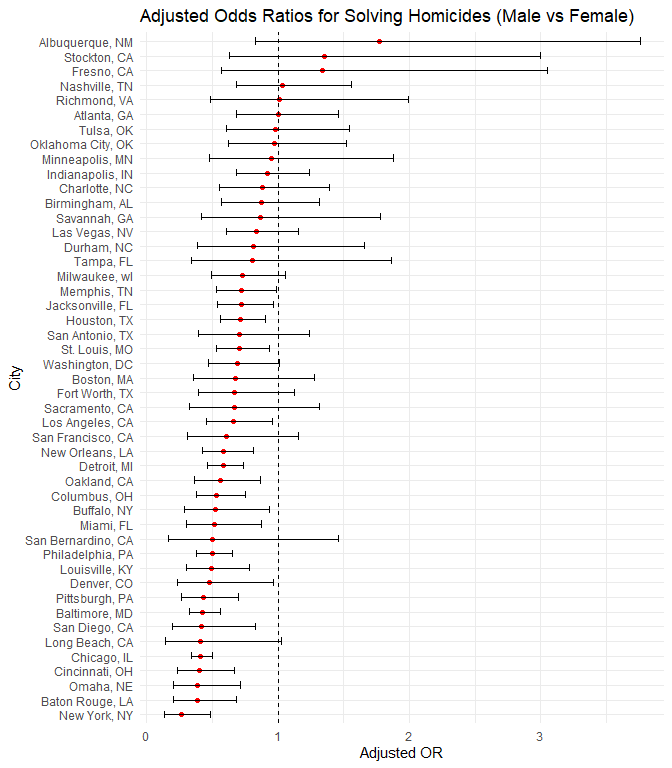
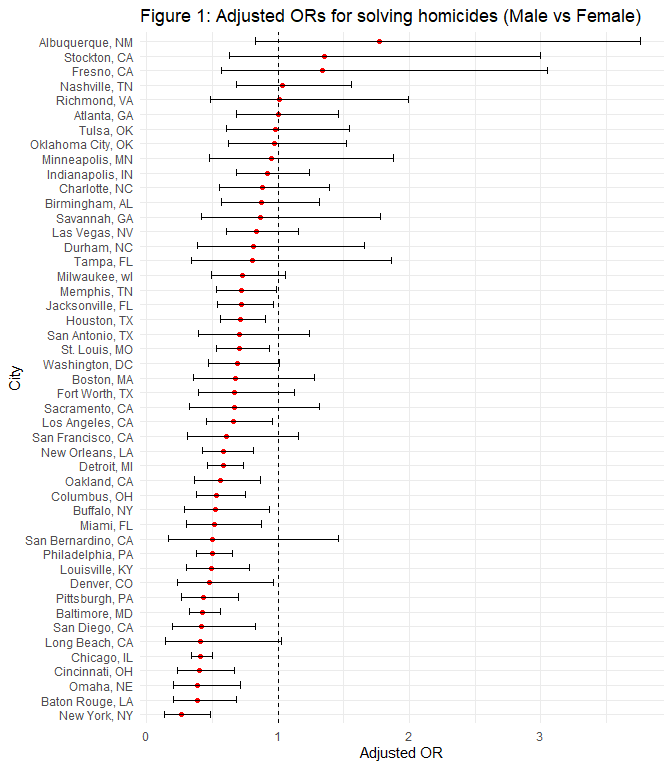
Complete problem 1

Changed region(s): [[0.1875, 0.0, 0.9688, 0.0312]]

diff --git a/p8105_hw6_ns3923.md b/p8105_hw6_ns3923.md
@@ -39,12 +39,12 @@ homicide_df
 
 **Cleaning and tidying data**
 
-Create a city_state variable (e.g. “Baltimore, MD”), and a binary
-variable indicating whether the homicide is solved. Omit cities Dallas,
-TX; Phoenix, AZ; and Kansas City, MO – these don’t report victim race.
-Also omit Tulsa, AL – this is a data entry mistake. For this problem,
-limit your analysis those for whom victim_race is white or black. Be
-sure that victim_age is numeric.
+- Create a city_state variable (e.g. “Baltimore, MD”), and a binary
+  variable indicating whether the homicide is solved.
+- Omit cities Dallas, TX; Phoenix, AZ; and Kansas City, MO (don’t report
+  victim race), and omit Tulsa, AL (a data entry mistake).
+- Limit those for whom victim_race is white or black, and victim_age is
+  numeric.
 
 ``` r
 homicide_df = homicide_df |> 
@@ -62,34 +62,30 @@ homicide_df = homicide_df |>
   drop_na(victim_age, victim_sex, victim_race)
 
 ##Check
-homicide_df |> 
-  count(city_state) |> 
-  arrange(desc(n))
+homicide_df 
 ```
 
-    ## # A tibble: 47 × 2
-    ##    city_state           n
-    ##    <chr>            <int>
-    ##  1 Chicago, IL       4502
-    ##  2 Baltimore, MD     2753
-    ##  3 Philadelphia, PA  2615
-    ##  4 Detroit, MI       2440
-    ##  5 Houston, TX       1875
-    ##  6 St. Louis, MO     1637
-    ##  7 Memphis, TN       1421
-    ##  8 New Orleans, LA   1339
-    ##  9 Washington, DC    1259
-    ## 10 Indianapolis, IN  1237
-    ## # ℹ 37 more rows
+    ## # A tibble: 39,403 × 14
+    ##    uid        reported_date victim_last  victim_first victim_race victim_age
+    ##    <chr>              <dbl> <chr>        <chr>        <chr>            <dbl>
+    ##  1 Alb-000003      20100601 SATTERFIELD  VIVIANA      White               15
+    ##  2 Alb-000005      20100102 MULA         VIVIAN       White               72
+    ##  3 Alb-000006      20100126 BOOK         GERALDINE    White               91
+    ##  4 Alb-000009      20100130 MARTIN-LEYVA GUSTAVO      White               56
+    ##  5 Alb-000016      20100308 GRAY         STEFANIA     White               43
+    ##  6 Alb-000018      20100323 DAVID        LARRY        White               52
+    ##  7 Alb-000019      20100402 BRITO        ELIZABETH    White               22
+    ##  8 Alb-000021      20100423 KING         TEVION       Black               15
+    ##  9 Alb-000022      20100423 BOYKIN       CEDRIC       Black               25
+    ## 10 Alb-000023      20100518 BARRAGAN     MIGUEL       White               20
+    ## # ℹ 39,393 more rows
+    ## # ℹ 8 more variables: victim_sex <chr>, city <chr>, state <chr>, lat <dbl>,
+    ## #   lon <dbl>, disposition <chr>, city_state <chr>, resolved <dbl>
 
 **Logistic regression for Baltimore, MD**
 
-For the city of Baltimore, MD, use the glm function to fit a logistic
-regression with resolved vs unresolved as the outcome and victim age,
-sex and race as predictors. Save the output of glm as an R object; apply
-the broom::tidy to this object; and obtain the estimate and confidence
-interval of the adjusted odds ratio for solving homicides comparing male
-victims to female victims keeping all other variables fixed.
+- Use the glm function to fit a logistic regression with resolved vs
+  unresolved as the outcome and victim age, sex and race as predictors.
 
 ``` r
 baltimore_df = 
@@ -108,21 +104,19 @@ baltimore_or =
   baltimore_fit |> 
   tidy(conf.int = TRUE, exponentiate = TRUE) |> 
   filter(term == "victim_sexMale") |> 
+  mutate(term = "Male vs Female (ref)") |> 
   select(term, estimate, conf.low, conf.high)
 
 baltimore_or |> 
   knitr::kable(digits = 3)
 ```
 
-| term           | estimate | conf.low | conf.high |
-|:---------------|---------:|---------:|----------:|
-| victim_sexMale |    0.426 |    0.324 |     0.558 |
+| term                 | estimate | conf.low | conf.high |
+|:---------------------|---------:|---------:|----------:|
+| Male vs Female (ref) |    0.426 |    0.324 |     0.558 |
 
-Now run glm for each of the cities in your dataset, and extract the
-adjusted odds ratio (and CI) for solving homicides comparing male
-victims to female victims. Do this within a “tidy” pipeline, making use
-of purrr::map, list columns, and unnest as necessary to create a
-dataframe with estimated ORs and CIs for each city.
+**Adjusted OR and CI for solving homicides comparing male to female
+victims**
 
 ``` r
 city_results = 
@@ -158,24 +152,75 @@ city_results =
     ## ℹ Run `dplyr::last_dplyr_warnings()` to see the 42 remaining warnings.
 
 ``` r
-##Check
 city_results |> 
   arrange(or) |> 
-  head()
+  select(city_state, or, or_lower, or_upper) |> 
+  mutate(
+    or       = round(or, 3),
+    or_lower = round(or_lower, 3),
+    or_upper = round(or_upper, 3)
+  ) |> 
+  knitr::kable(
+    col.names = c(
+      "City",
+      "Adjusted OR (Male vs Female)",
+      "Lower 95% CI",
+      "Upper 95% CI"
+    )
+  )
 ```
 
-    ## # A tibble: 6 × 8
-    ##   city_state      term         or std.error statistic  p.value or_lower or_upper
-    ##   <chr>           <chr>     <dbl>     <dbl>     <dbl>    <dbl>    <dbl>    <dbl>
-    ## 1 New York, NY    victim_s… 0.262     0.328     -4.08 4.54e- 5    0.133    0.485
-    ## 2 Baton Rouge, LA victim_s… 0.381     0.306     -3.15 1.65e- 3    0.204    0.684
-    ## 3 Omaha, NE       victim_s… 0.382     0.323     -2.97 2.95e- 3    0.199    0.711
-    ## 4 Cincinnati, OH  victim_s… 0.400     0.269     -3.41 6.49e- 4    0.231    0.667
-    ## 5 Chicago, IL     victim_s… 0.410     0.102     -8.77 1.86e-18    0.336    0.501
-    ## 6 Long Beach, CA  victim_s… 0.410     0.495     -1.80 7.18e- 2    0.143    1.02
+| City               | Adjusted OR (Male vs Female) | Lower 95% CI | Upper 95% CI |
+|:-------------------|-----------------------------:|-------------:|-------------:|
+| New York, NY       |                        0.262 |        0.133 |        0.485 |
+| Baton Rouge, LA    |                        0.381 |        0.204 |        0.684 |
+| Omaha, NE          |                        0.382 |        0.199 |        0.711 |
+| Cincinnati, OH     |                        0.400 |        0.231 |        0.667 |
+| Chicago, IL        |                        0.410 |        0.336 |        0.501 |
+| Long Beach, CA     |                        0.410 |        0.143 |        1.024 |
+| San Diego, CA      |                        0.413 |        0.191 |        0.830 |
+| Baltimore, MD      |                        0.426 |        0.324 |        0.558 |
+| Pittsburgh, PA     |                        0.431 |        0.263 |        0.696 |
+| Denver, CO         |                        0.479 |        0.233 |        0.962 |
+| Louisville, KY     |                        0.491 |        0.301 |        0.784 |
+| Philadelphia, PA   |                        0.496 |        0.376 |        0.650 |
+| San Bernardino, CA |                        0.500 |        0.166 |        1.462 |
+| Miami, FL          |                        0.515 |        0.304 |        0.873 |
+| Buffalo, NY        |                        0.521 |        0.288 |        0.936 |
+| Columbus, OH       |                        0.532 |        0.377 |        0.748 |
+| Oakland, CA        |                        0.563 |        0.364 |        0.867 |
+| Detroit, MI        |                        0.582 |        0.462 |        0.734 |
+| New Orleans, LA    |                        0.585 |        0.422 |        0.812 |
+| San Francisco, CA  |                        0.608 |        0.312 |        1.155 |
+| Los Angeles, CA    |                        0.662 |        0.457 |        0.954 |
+| Sacramento, CA     |                        0.669 |        0.326 |        1.314 |
+| Fort Worth, TX     |                        0.669 |        0.394 |        1.121 |
+| Boston, MA         |                        0.674 |        0.353 |        1.277 |
+| Washington, DC     |                        0.690 |        0.465 |        1.012 |
+| St. Louis, MO      |                        0.703 |        0.530 |        0.932 |
+| San Antonio, TX    |                        0.705 |        0.393 |        1.238 |
+| Houston, TX        |                        0.711 |        0.557 |        0.906 |
+| Jacksonville, FL   |                        0.720 |        0.536 |        0.965 |
+| Memphis, TN        |                        0.723 |        0.526 |        0.984 |
+| Milwaukee, wI      |                        0.727 |        0.495 |        1.054 |
+| Tampa, FL          |                        0.808 |        0.340 |        1.860 |
+| Durham, NC         |                        0.812 |        0.382 |        1.658 |
+| Las Vegas, NV      |                        0.837 |        0.606 |        1.151 |
+| Savannah, GA       |                        0.867 |        0.419 |        1.780 |
+| Birmingham, AL     |                        0.870 |        0.571 |        1.314 |
+| Charlotte, NC      |                        0.884 |        0.551 |        1.391 |
+| Indianapolis, IN   |                        0.919 |        0.678 |        1.241 |
+| Minneapolis, MN    |                        0.947 |        0.476 |        1.881 |
+| Oklahoma City, OK  |                        0.974 |        0.623 |        1.520 |
+| Tulsa, OK          |                        0.976 |        0.609 |        1.544 |
+| Atlanta, GA        |                        1.000 |        0.680 |        1.458 |
+| Richmond, VA       |                        1.006 |        0.483 |        1.994 |
+| Nashville, TN      |                        1.034 |        0.681 |        1.556 |
+| Fresno, CA         |                        1.335 |        0.567 |        3.048 |
+| Stockton, CA       |                        1.352 |        0.626 |        2.994 |
+| Albuquerque, NM    |                        1.767 |        0.825 |        3.762 |
 
-Create a plot that shows the estimated ORs and CIs for each city.
-Organize cities according to estimated OR, and comment on the plot.
+**Create a plot shows the estimated ORs and CIs for each city**
 
 ``` r
 city_results |> 
@@ -186,7 +231,7 @@ city_results |>
   geom_hline(yintercept = 1, linetype = "dashed") +
   coord_flip() +
   labs(
-    title = "Adjusted Odds Ratios for Solving Homicides (Male vs Female)",
+    title = "Figure 1: Adjusted ORs for solving homicides (Male vs Female)",
     x = "City",
     y = "Adjusted OR"
   ) +
@@ -194,3 +239,15 @@ city_results |>
 ```
 
 ![](p8105_hw6_ns3923_files/figure-gfm/P1_plot-1.png)<!-- -->
+
+**Interpretation:** Most cities have odds ratios below 1, meaning
+homicides involving male victims are less likely to be solved than those
+involving female victims, after adjusting for victim age and race. Only
+a few cities, such as Albuquerque, NM, Stockton, CA, and Fresno, CA,
+have odds ratios above 1. Still, their confidence intervals are wide, so
+the results are uncertain, and we cannot be sure whether solving rates
+are truly higher among male than female victims. These uncertain
+exceptions may reflect a smaller population or more variable case
+patterns in those cities. The lowest odds ratios are in New York, NY,
+Baton Rouge, LA, and Omaha, NE. These cities show a much lower chance of
+solving cases involving male victims.
